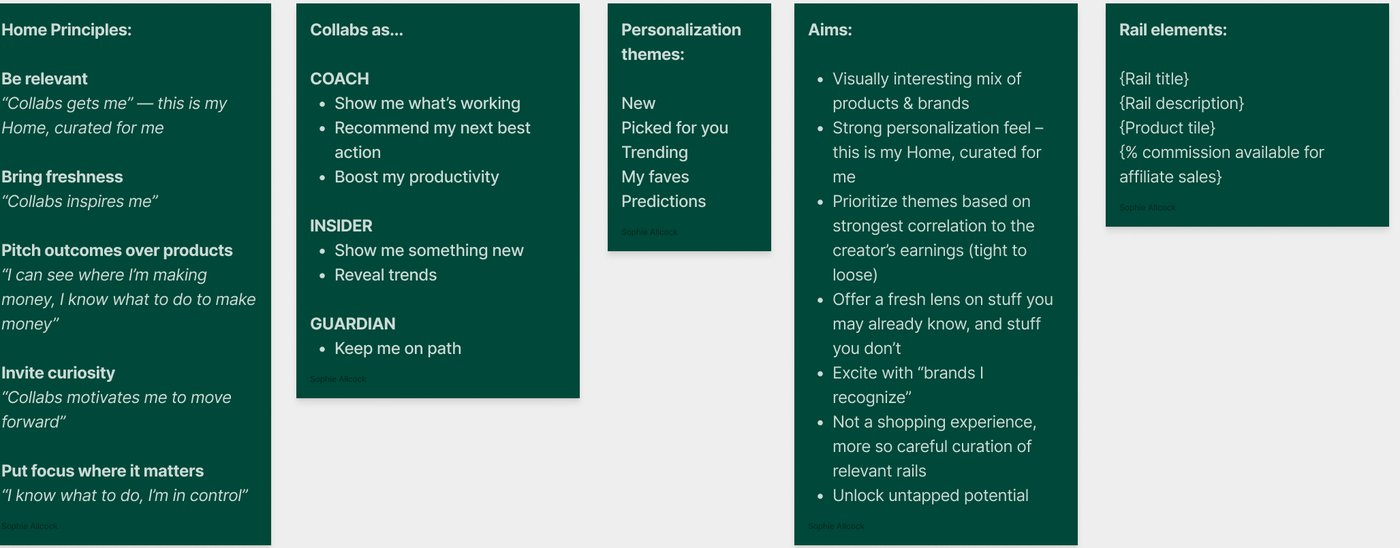
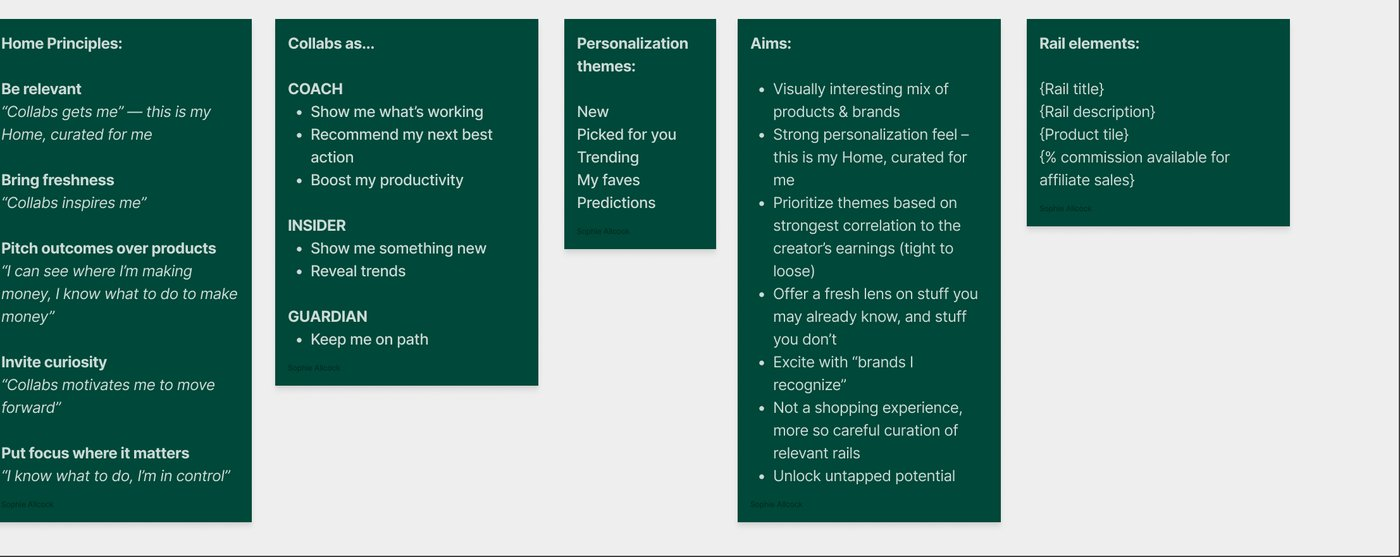
Collabs: gentler personas crop (keep side margins); Shop Assistant: clearer naming learning

diff --git a/work/shop-assistant/index.html b/work/shop-assistant/index.html
@@ -421,7 +421,7 @@
       <h2>What I learned</h2>
       <ul class="points">
         <li>Writing for a model I couldn't fully control was new. In the first days the API existed, you couldn't just specify an output, you shaped the conditions and hoped. That reframed the job: less writing the answer, more designing the context and guardrails the model answers inside.</li>
-        <li>So much of the scoping happened through naming. Debating what to call it, and whether to lean into the weirdness or reel it back in, was really us deciding what the product was. Naming isn't a label you add at the end, it's where a lot of the design actually gets decided.</li>
+        <li>Naming did more of the design work than I expected. What we called the assistant, shopé, and how weird we let it be, was really us deciding what the product was and how it should feel. Names turned out to be design decisions you make early, not labels you add at the end.</li>
         <li>This was the first time I treated a model as something you design the surroundings for, rather than something you script. The instinct holds up, even with week-old tools. What I'd change now is starting from the content standards and how we'd evaluate quality, not from the demo.</li>
       </ul>
     </section>